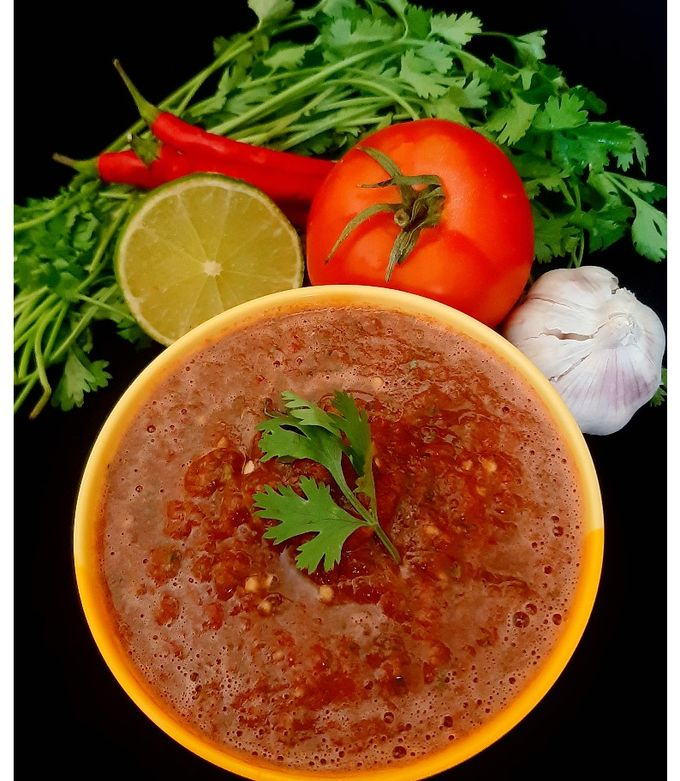
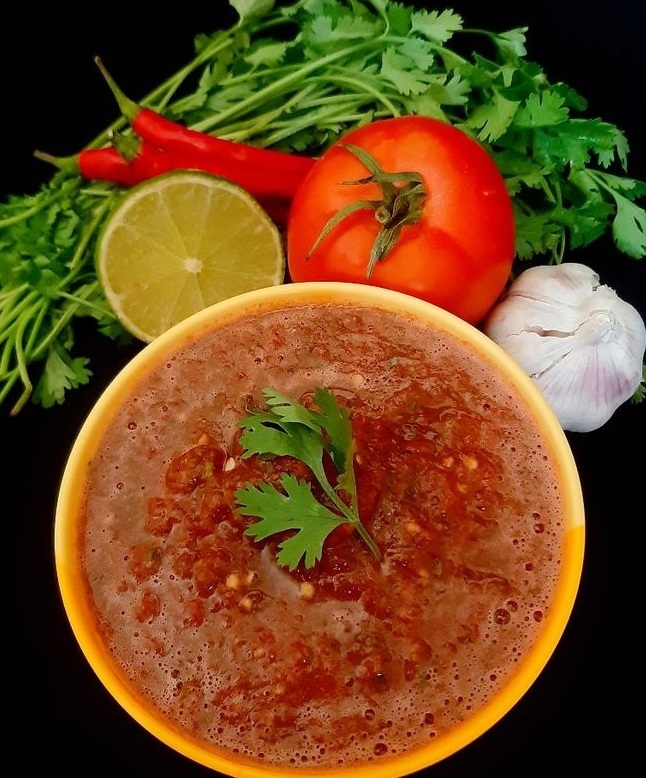
updating serves

diff --git a/cuisine/indian/biryani.md b/cuisine/indian/biryani.md
@@ -8,7 +8,7 @@
 
 **Cook Time:** 45 minutes
 
-**Yield:** Approximately 1 ½ liters (4-6 servings)
+**Serves:** 4
 
 ## Overview
 Biryani represents the height of Indian culinary technique: multiple components prepared separately with precision, then assembled in layers where flavors permeate through steam cooking. This isn't a one-step rice dish; rather, it's an architectural construction where yogurt-marinated lamb develops tenderization and flavor, then cooks slowly with warm spices and tomato, while basmati rice is independently flavored with saffron infusion and whole spices. Upon assembly, the two elements marry through steam, creating a unified dish where lamb and rice are inseparable in flavor. Traditionally cooked during festivals and royal celebrations, biryani requires patience and multiple steps but rewards with sophistication.